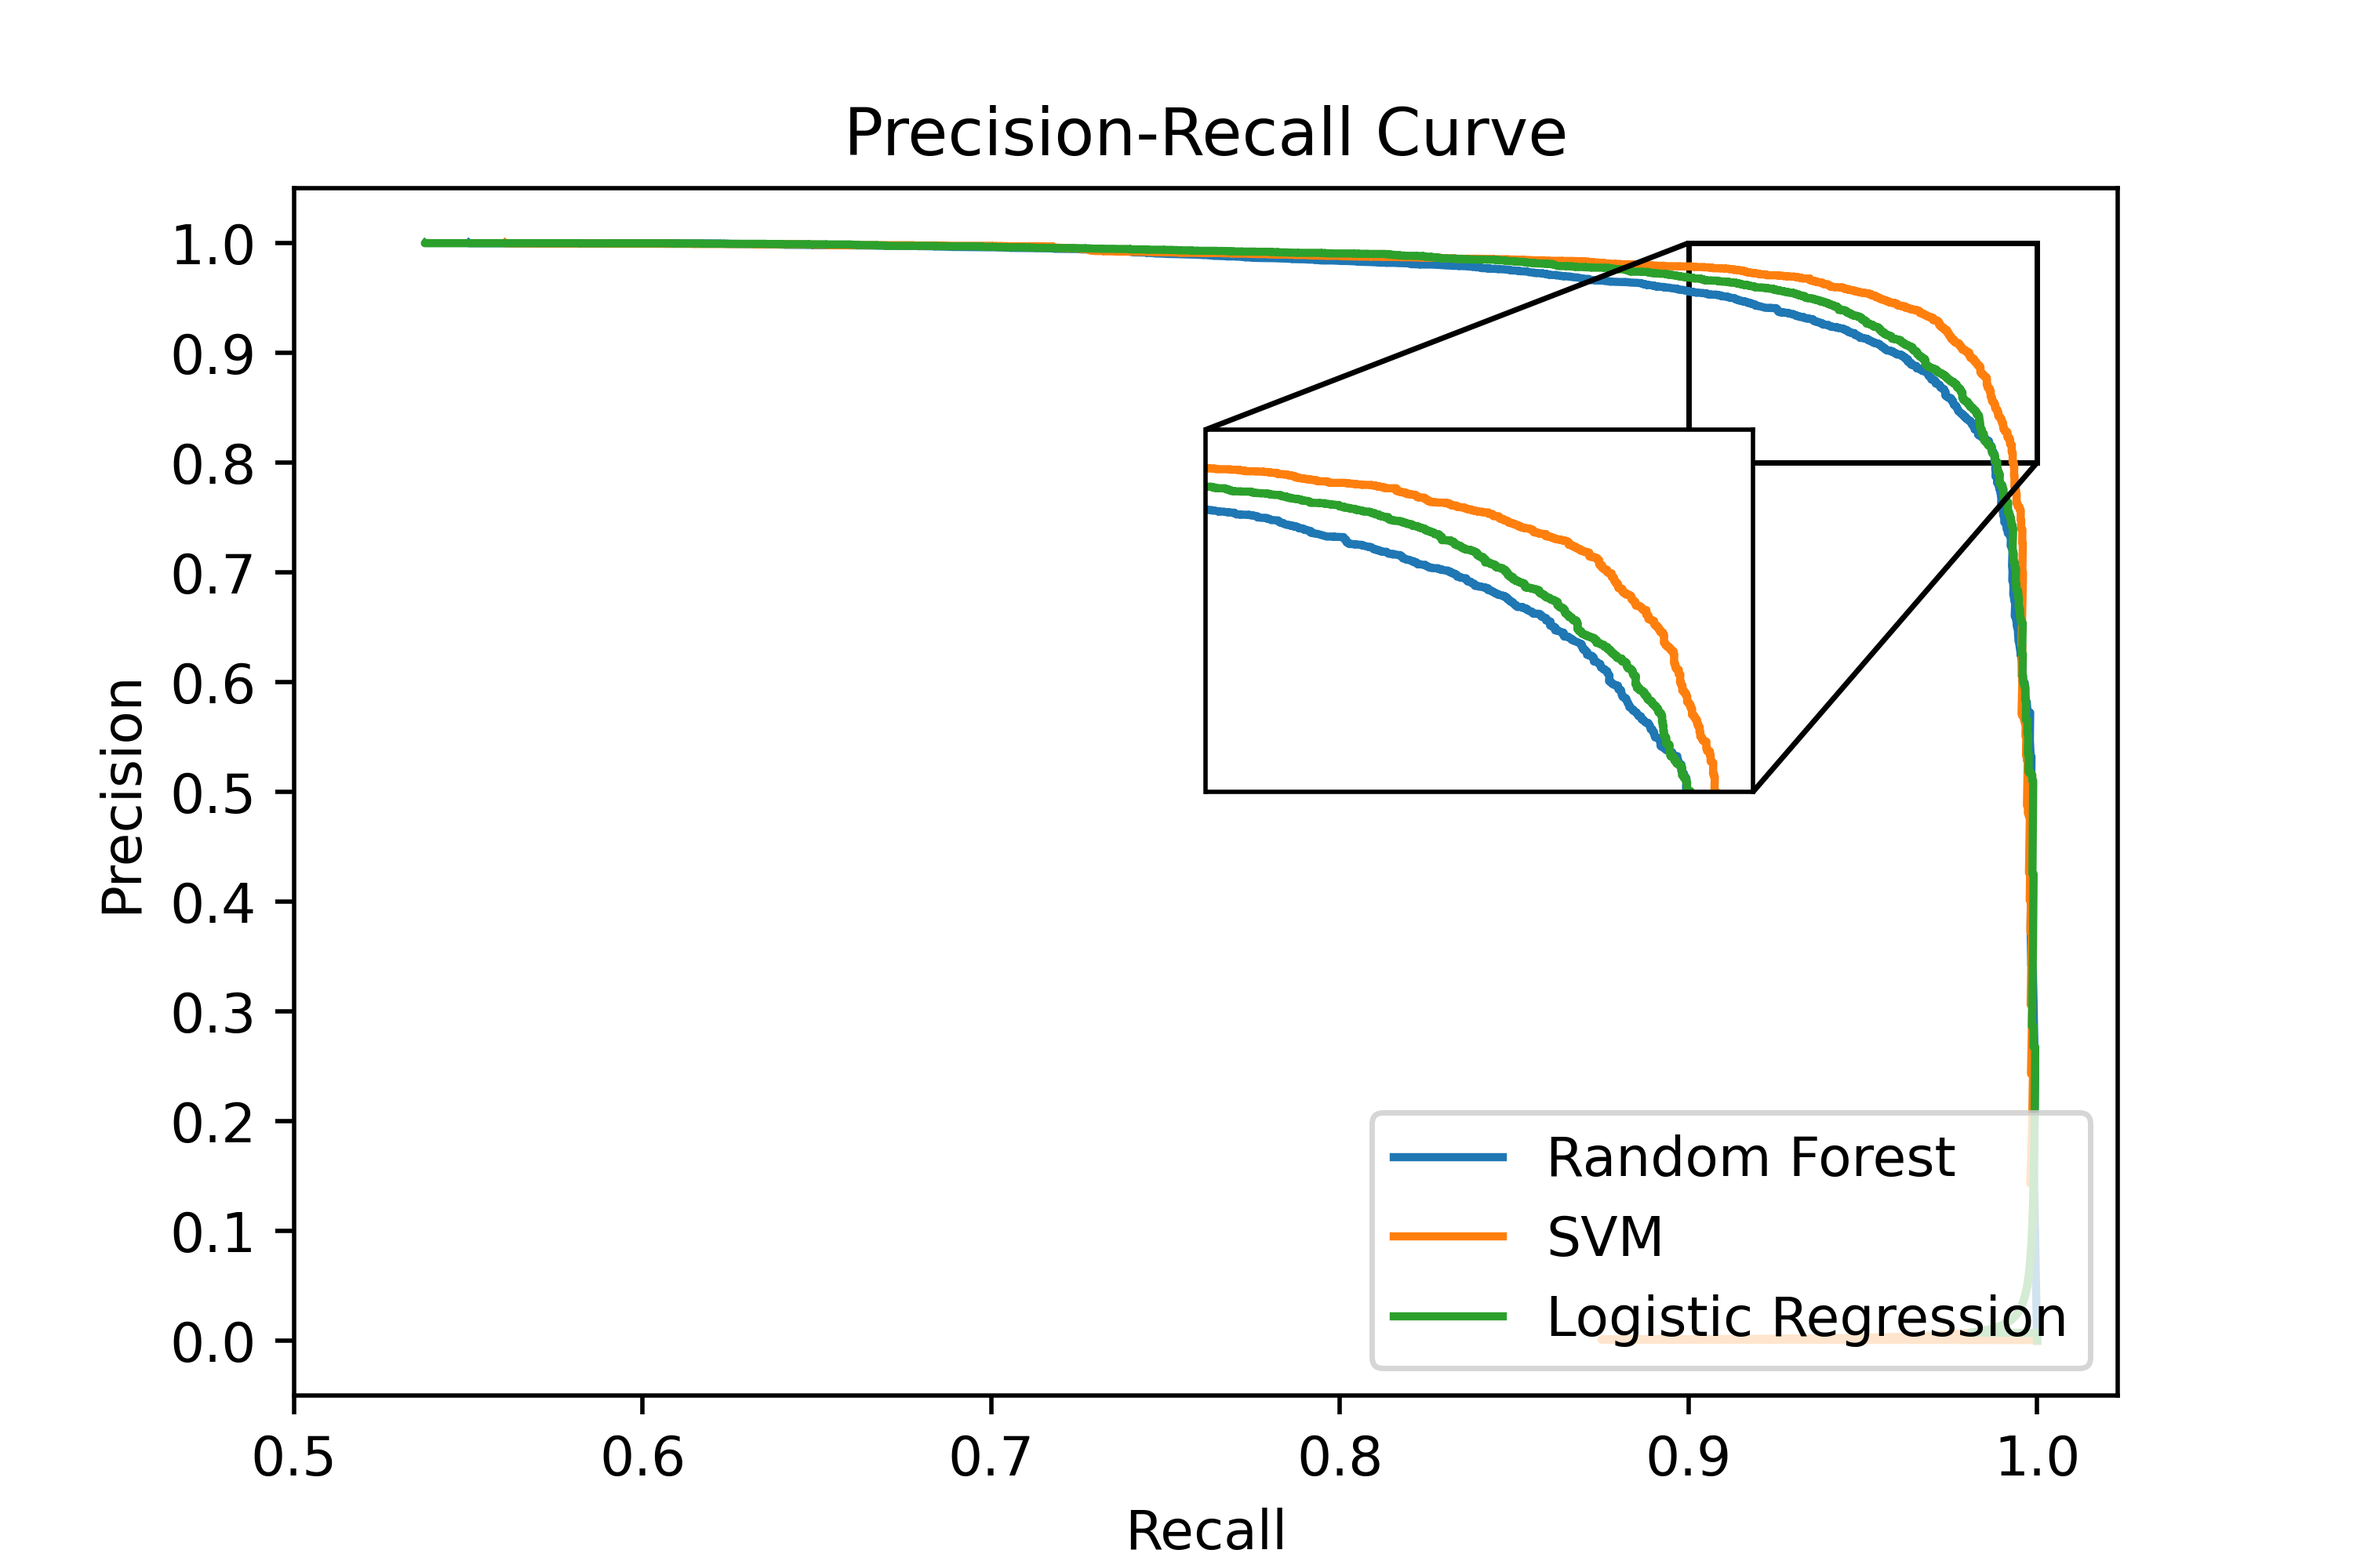
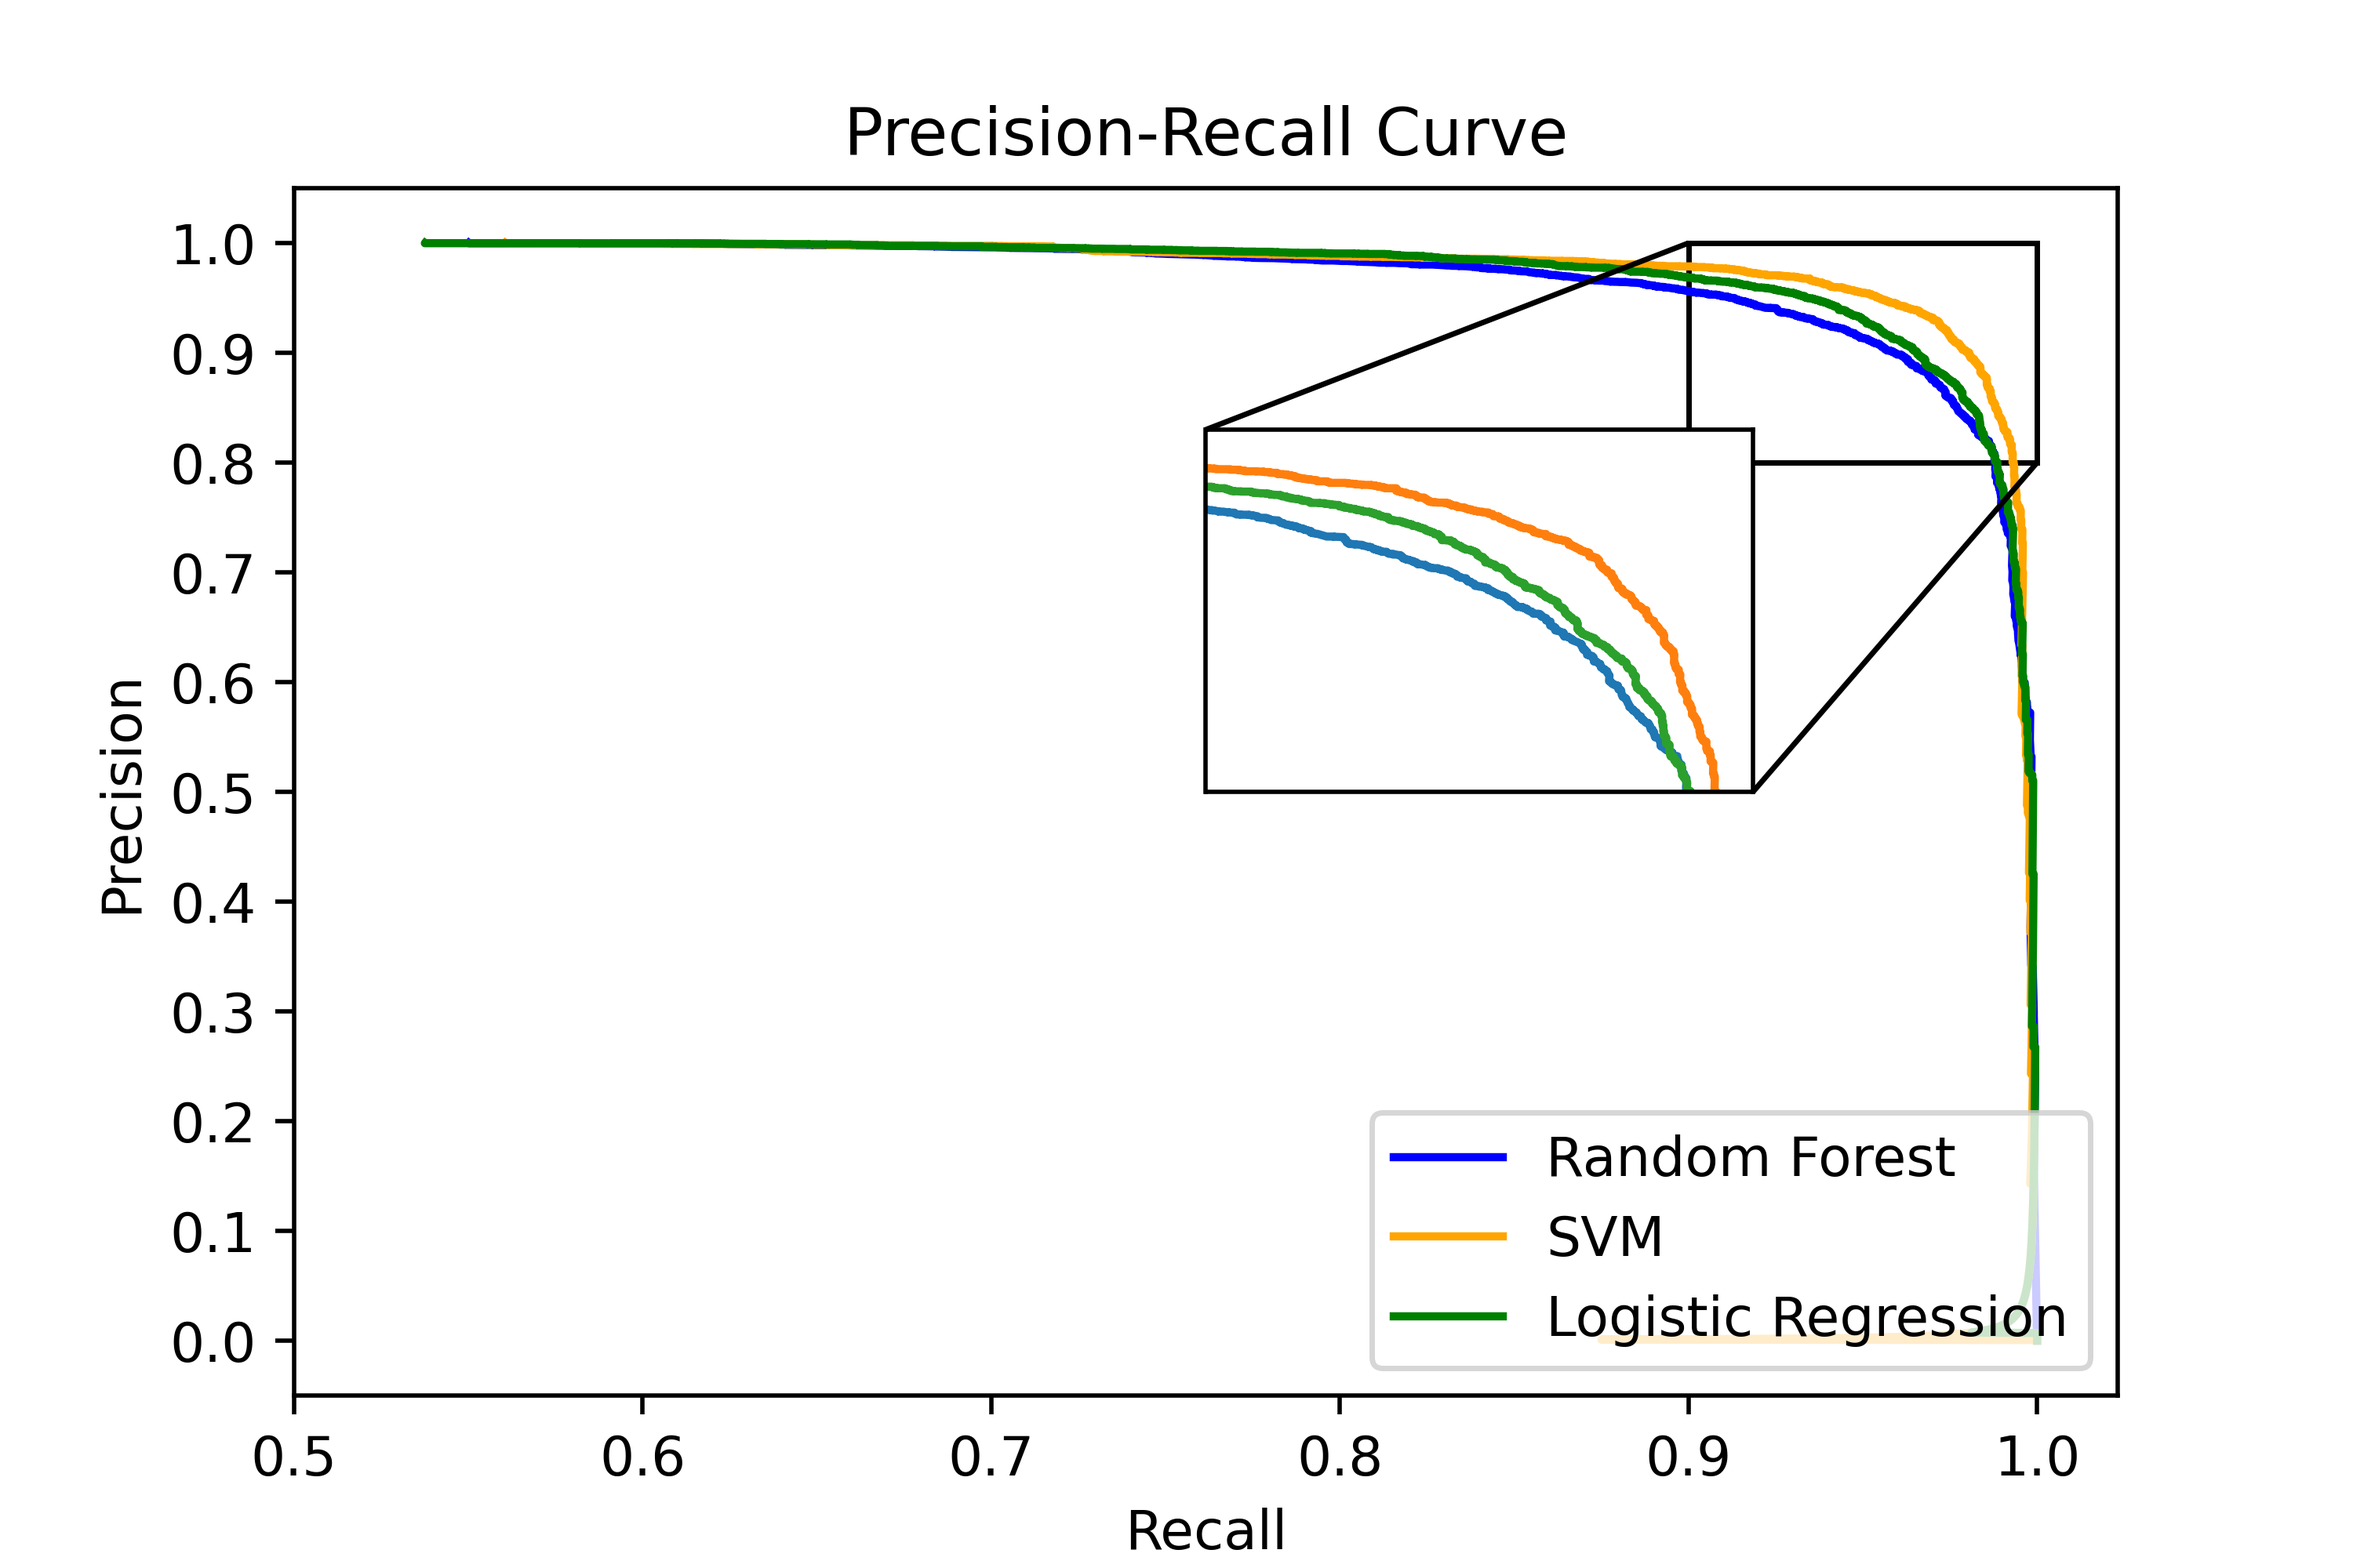
Plot_v2

diff --git a/Model/Final_Project_Plot.py b/Model/Final_Project_Plot.py
@@ -1,0 +1,149 @@
+#######################
+from matplotlib.lines import _LineStyle
+import numpy as np
+import matplotlib.pyplot as plt
+import pandas as pd
+import seaborn as sns
+import sklearn.metrics as metrics
+from sklearn.linear_model import Ridge, RidgeCV
+from sklearn.model_selection import LeaveOneOut, cross_val_score
+from sklearn.model_selection import train_test_split
+from sklearn.pipeline import Pipeline
+from sklearn.preprocessing import StandardScaler
+from sklearn.linear_model import LogisticRegression
+from sklearn.model_selection import GridSearchCV
+from sklearn.metrics import roc_auc_score
+from sklearn.metrics import roc_curve
+from sklearn.metrics import classification_report
+import warnings
+warnings.filterwarnings('ignore')
+#######################
+#LogisticRegression
+#######################
+# Load the origin data 
+X_train = pd.read_csv('X_train.csv')
+y_train = pd.read_csv('y_train.csv')
+X_test = pd.read_csv('X_test.csv')
+y_test = pd.read_csv('y_test.csv')
+# Scale the data
+scaler = StandardScaler()
+X_train = scaler.fit_transform(X_train)
+X_test = scaler.transform(X_test)
+# Fitting the Logistic Regression
+LR = LogisticRegression(random_state=0)
+LR.fit(X_train, y_train.values.ravel())
+# Cross validation 
+scores = cross_val_score(LR, X_train, y_train.values.ravel(),n_jobs = -1)
+print(f" Accuracy of Logistic Regression : {round(np.mean(scores) ,4) * 100} %")
+# Parameter optimization 
+parameters = {'C':[0.001,0.01,0.1,1,10,100,1000],'solver':['newton-cg','lbfgs','sag','saga']}
+solver = {'solver':['newton-cg','lbfgs','sag','saga']}
+LR_grid = GridSearchCV(LR,parameters,scoring='accuracy',n_jobs = -1)
+LR_grid.fit(X_train, y_train.values.ravel())
+print(f"Best parameters of Logistic Regression : {LR_grid.best_params_}")
+print(f"Best score of Logistic Regression : {LR_grid.best_score_}")
+# Predict the test set
+y_pred = LR_grid.predict(X_test)
+# Save the y_pred to CSV
+y_pred = pd.DataFrame(y_pred)
+y_pred.to_csv('y_pred_LR.csv',index=False)
+# Evaluate the model
+print(f" Accuracy of Logistic Regression : {round(metrics.accuracy_score(y_test, y_pred) ,4) * 100} %")
+print(f" Confusion Matrix of Logistic Regression : \n {metrics.confusion_matrix(y_test, y_pred)}")
+print(f" Classification Report of Logistic Regression : \n {metrics.classification_report(y_test, y_pred)}")
+# Plot the confusion matrix
+sns.heatmap(metrics.confusion_matrix(y_test, y_pred), annot=True, fmt='d', cmap='Blues')
+plt.title('Confusion Matrix of Logistic Regression')
+plt.ylabel('True Label')
+plt.xlabel('Predicted Label')
+plt.show()
+# Plot the ROC curve
+y_pred_prob = LR_grid.predict_proba(X_test)[:,1]
+fpr, tpr, thresholds = roc_curve(y_test, y_pred_prob)
+plt.plot(fpr, tpr)
+plt.xlabel('False Positive Rate')
+plt.ylabel('True Positive Rate')
+plt.title('ROC Curve of Logistic Regression')
+plt.show()
+# Save the ROC curve to CSV
+fpr = pd.DataFrame(fpr)
+fpr.to_csv('fpr_LR.csv',index=False)
+tpr = pd.DataFrame(tpr)
+tpr.to_csv('tpr_LR.csv',index=False)
+# Save the PR as PR_LR
+precision, recall, thresholds = metrics.precision_recall_curve(y_test, y_pred_prob)
+PR_LR = pd.DataFrame(np.array([precision,recall]).T)
+PR_LR.to_csv('PR_LR.csv',index=False)
+
+
+from mpl_toolkits.axes_grid1.inset_locator import mark_inset
+from mpl_toolkits.axes_grid1.inset_locator import inset_axes
+# Set the path
+path = 'C:/Users/LAN/Downloads/208notes/STA208_final_proj/Model'
+# Load the data
+y_pred_LR = pd.read_csv('y_pred_LR.csv')
+y_pred_RF = pd.read_csv('y_pred_RF.csv')
+y_pred_SVM = pd.read_csv('y_pred_SVM.csv')
+ROC_RF = pd.read_csv('ROC_RF.csv')
+ROC_svm = pd.read_csv('ROC_svm.csv')
+fpr_LR = pd.read_csv('fpr_LR.csv')
+tpr_LR = pd.read_csv('tpr_LR.csv')
+PR_RF = pd.read_csv('PR_RF.csv')
+PR_svm= pd.read_csv('PR_svm.csv')
+PR_LR = pd.read_csv('PR_LR.csv')
+# Plot Roc in one plot
+fig, ax = plt.subplots(1, 1, figsize=(6, 4))
+ax.plot(ROC_RF.iloc[:,0], ROC_RF.iloc[:,1], label='Random Forest', color = 'blue')
+ax.plot(ROC_svm.iloc[:,0], ROC_svm.iloc[:,1], label='SVM',color = 'orange')
+ax.plot(fpr_LR, tpr_LR, label='Logistic Regression',color = 'green')
+ax.legend(loc='lower right')
+ax.set_xlabel('False Positive Rate')
+ax.set_ylabel('True Positive Rate')
+ax.set_title('ROC Curve')
+ax.set_xticks(np.arange(0, 1.1, 0.1))
+ax.set_yticks(np.arange(0, 1.1, 0.1))
+# Zoom out and add annotation
+axins = ax.inset_axes([0.2, 0.5, 0.3, 0.3])
+axins.plot(ROC_RF.iloc[:,0], ROC_RF.iloc[:,1], label='Random Forest', color = 'blue')
+axins.plot(ROC_svm.iloc[:,0], ROC_svm.iloc[:,1], label='SVM',color = 'orange')
+axins.plot(fpr_LR, tpr_LR, label='Logistic Regression',color = 'green')
+# Zoom in the upper left corner
+axins.set_xlim(0, 0.2)
+axins.set_ylim(0.8, 1)
+axins.set_xticks([])
+axins.set_yticks([])
+# Add connnecting lines
+mark_inset(ax, axins, loc1=3, loc2=1, fc="none", ec="k")
+plt.show()
+fig.savefig('ROC.png', dpi=500)
+
+
+# Plot Precision-Recall in one plot
+fig, ax = plt.subplots(1, 1, figsize=(6, 4))
+ax.plot(PR_RF.iloc[:,0], PR_RF.iloc[:,1], label='Random Forest', color = 'blue')
+ax.plot(PR_svm.iloc[:,0], PR_svm.iloc[:,1], label='SVM',color = 'orange')
+ax.plot(PR_LR.iloc[:,0], PR_LR.iloc[:,1], label='Logistic Regression',color = 'green')
+ax.legend(loc='lower right')
+ax.set_xlabel('Recall')
+ax.set_ylabel('Precision')
+ax.set_title('Precision-Recall Curve')
+ax.set_xticks(np.arange(0.5, 1.05, 0.1))
+ax.set_yticks(np.arange(0, 1.1, 0.1))
+# Zoom out and add annotation
+axins = ax.inset_axes([0.5, 0.5, 0.3, 0.3])
+axins.plot(PR_RF.iloc[:,0], PR_RF.iloc[:,1], label='Random Forest')
+axins.plot(PR_svm.iloc[:,0], PR_svm.iloc[:,1], label='SVM')
+axins.plot(PR_LR.iloc[:,0], PR_LR.iloc[:,1], label='Logistic Regression')
+# Zoom in the upper right corner
+axins.set_xlim(0.9, 1)
+axins.set_ylim(0.8, 1)
+axins.set_xticks([])
+axins.set_yticks([])
+# Add connnecting lines
+mark_inset(ax, axins, loc1=2, loc2=4, fc="none", ec="k")
+plt.show()
+
+# Save the ROC and PR plot
+
+fig.savefig('PR.png', dpi=500)
+
